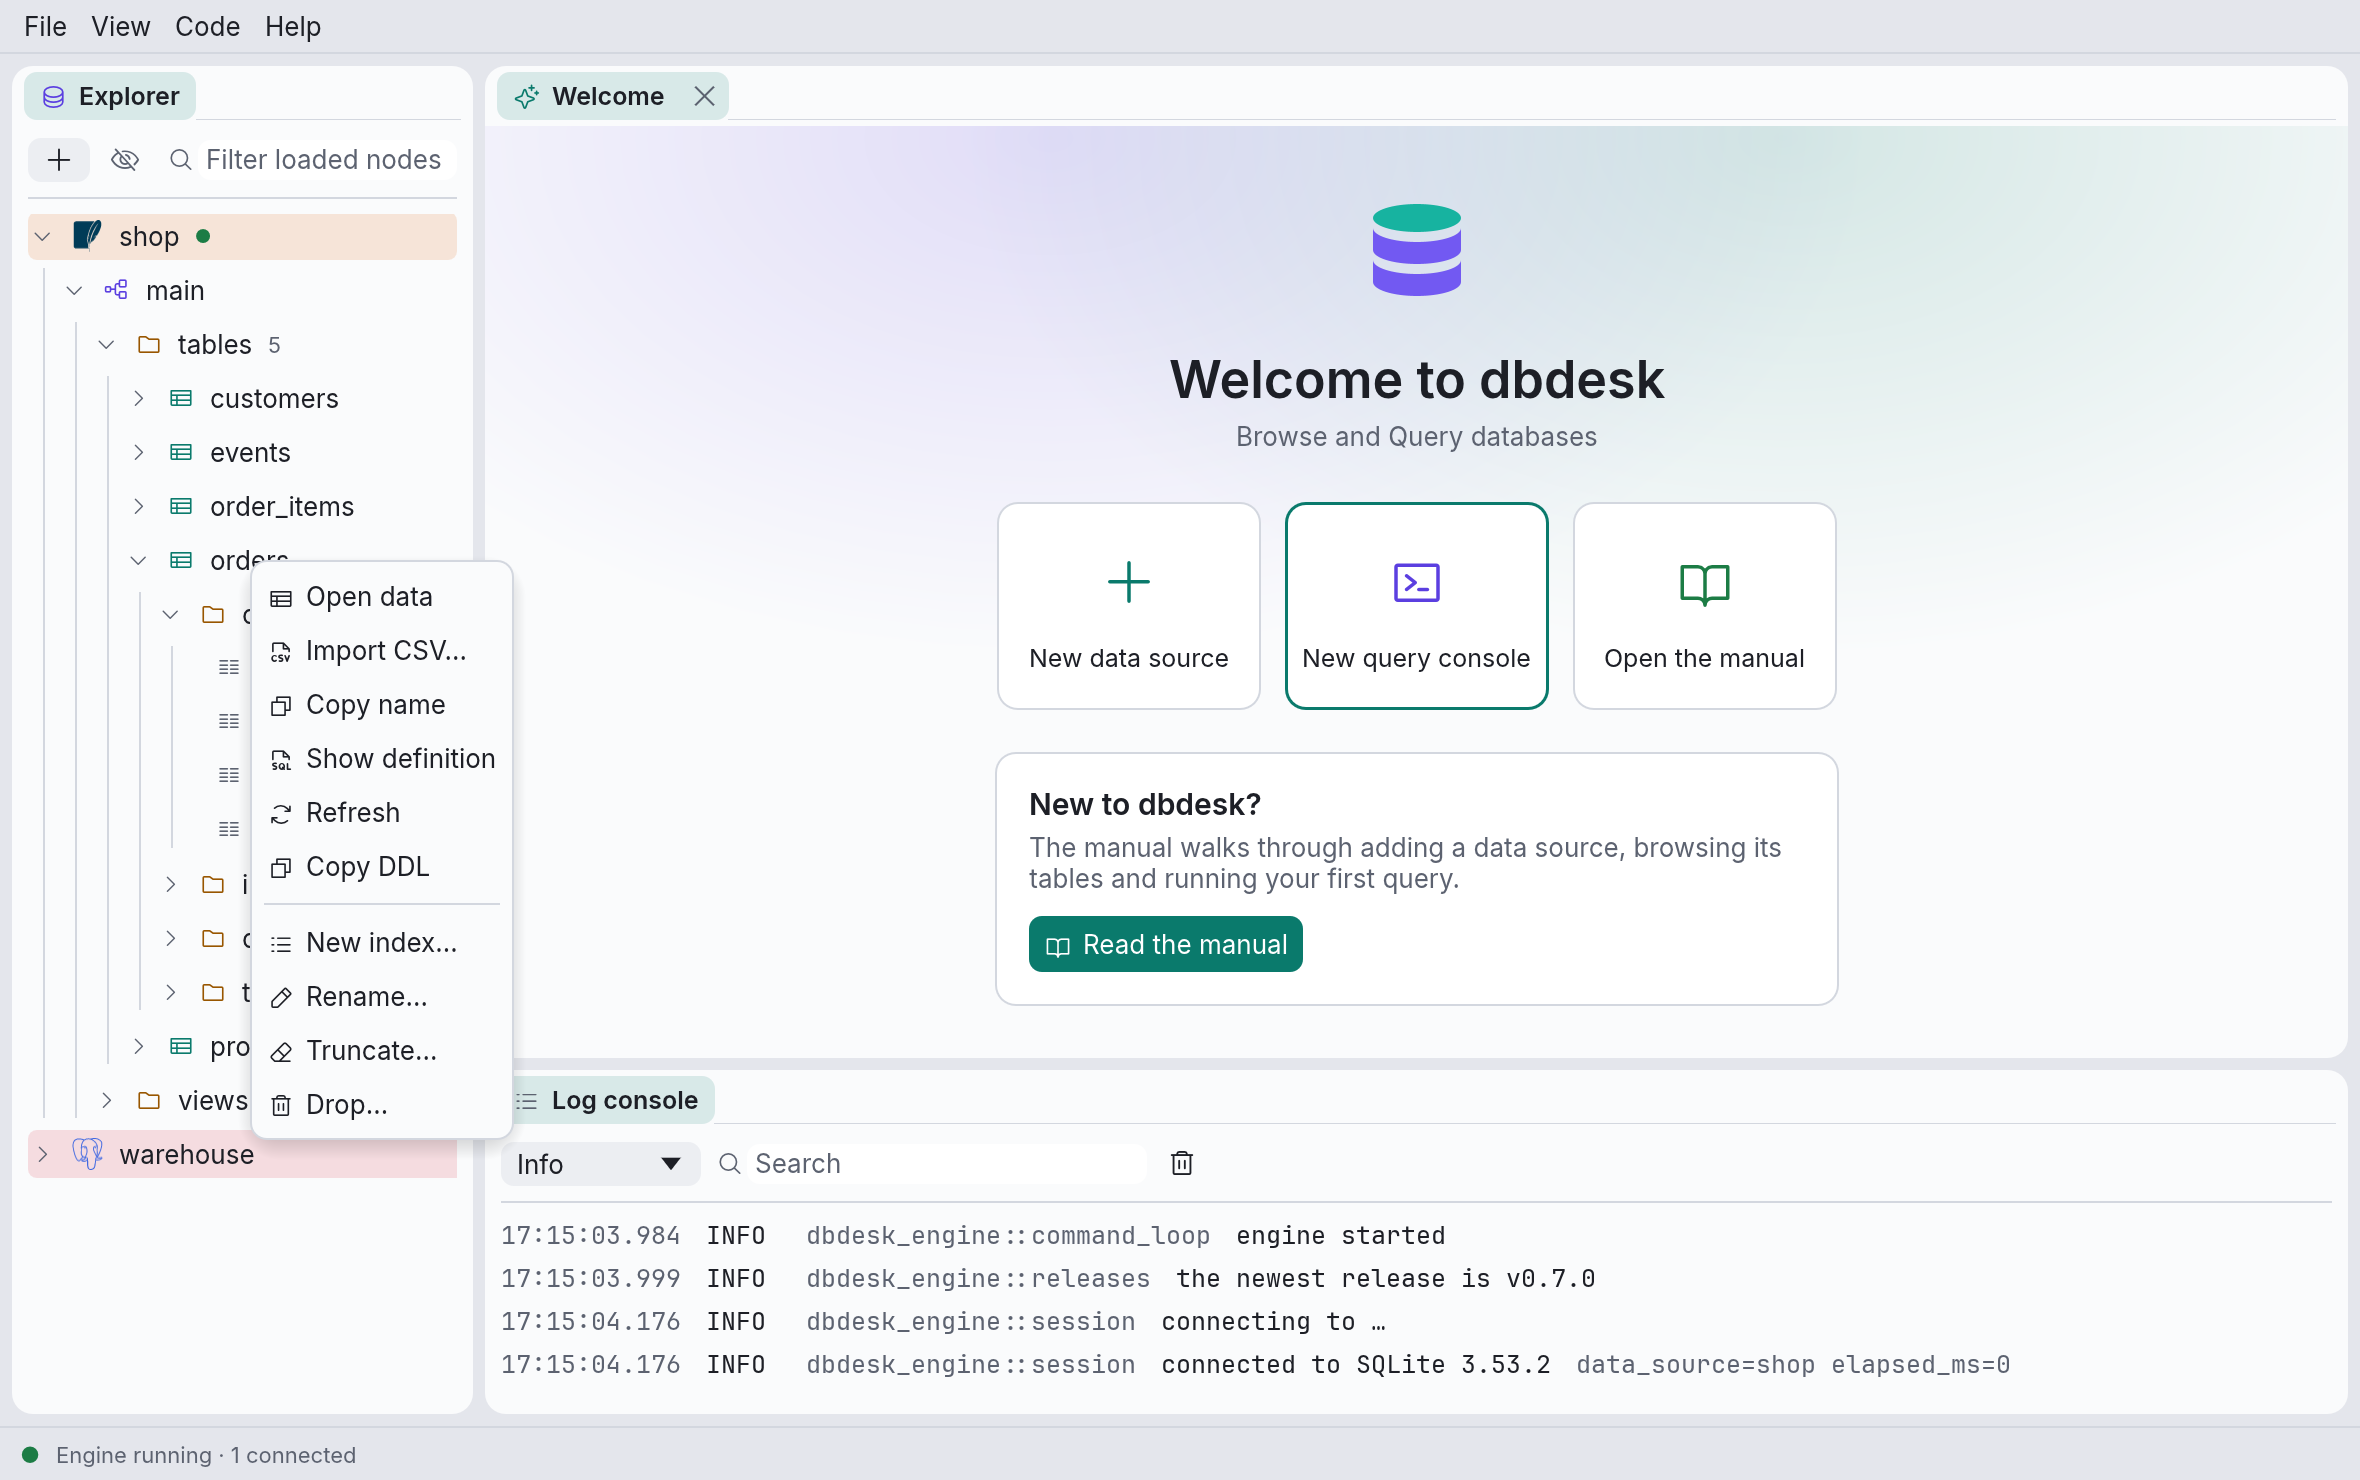
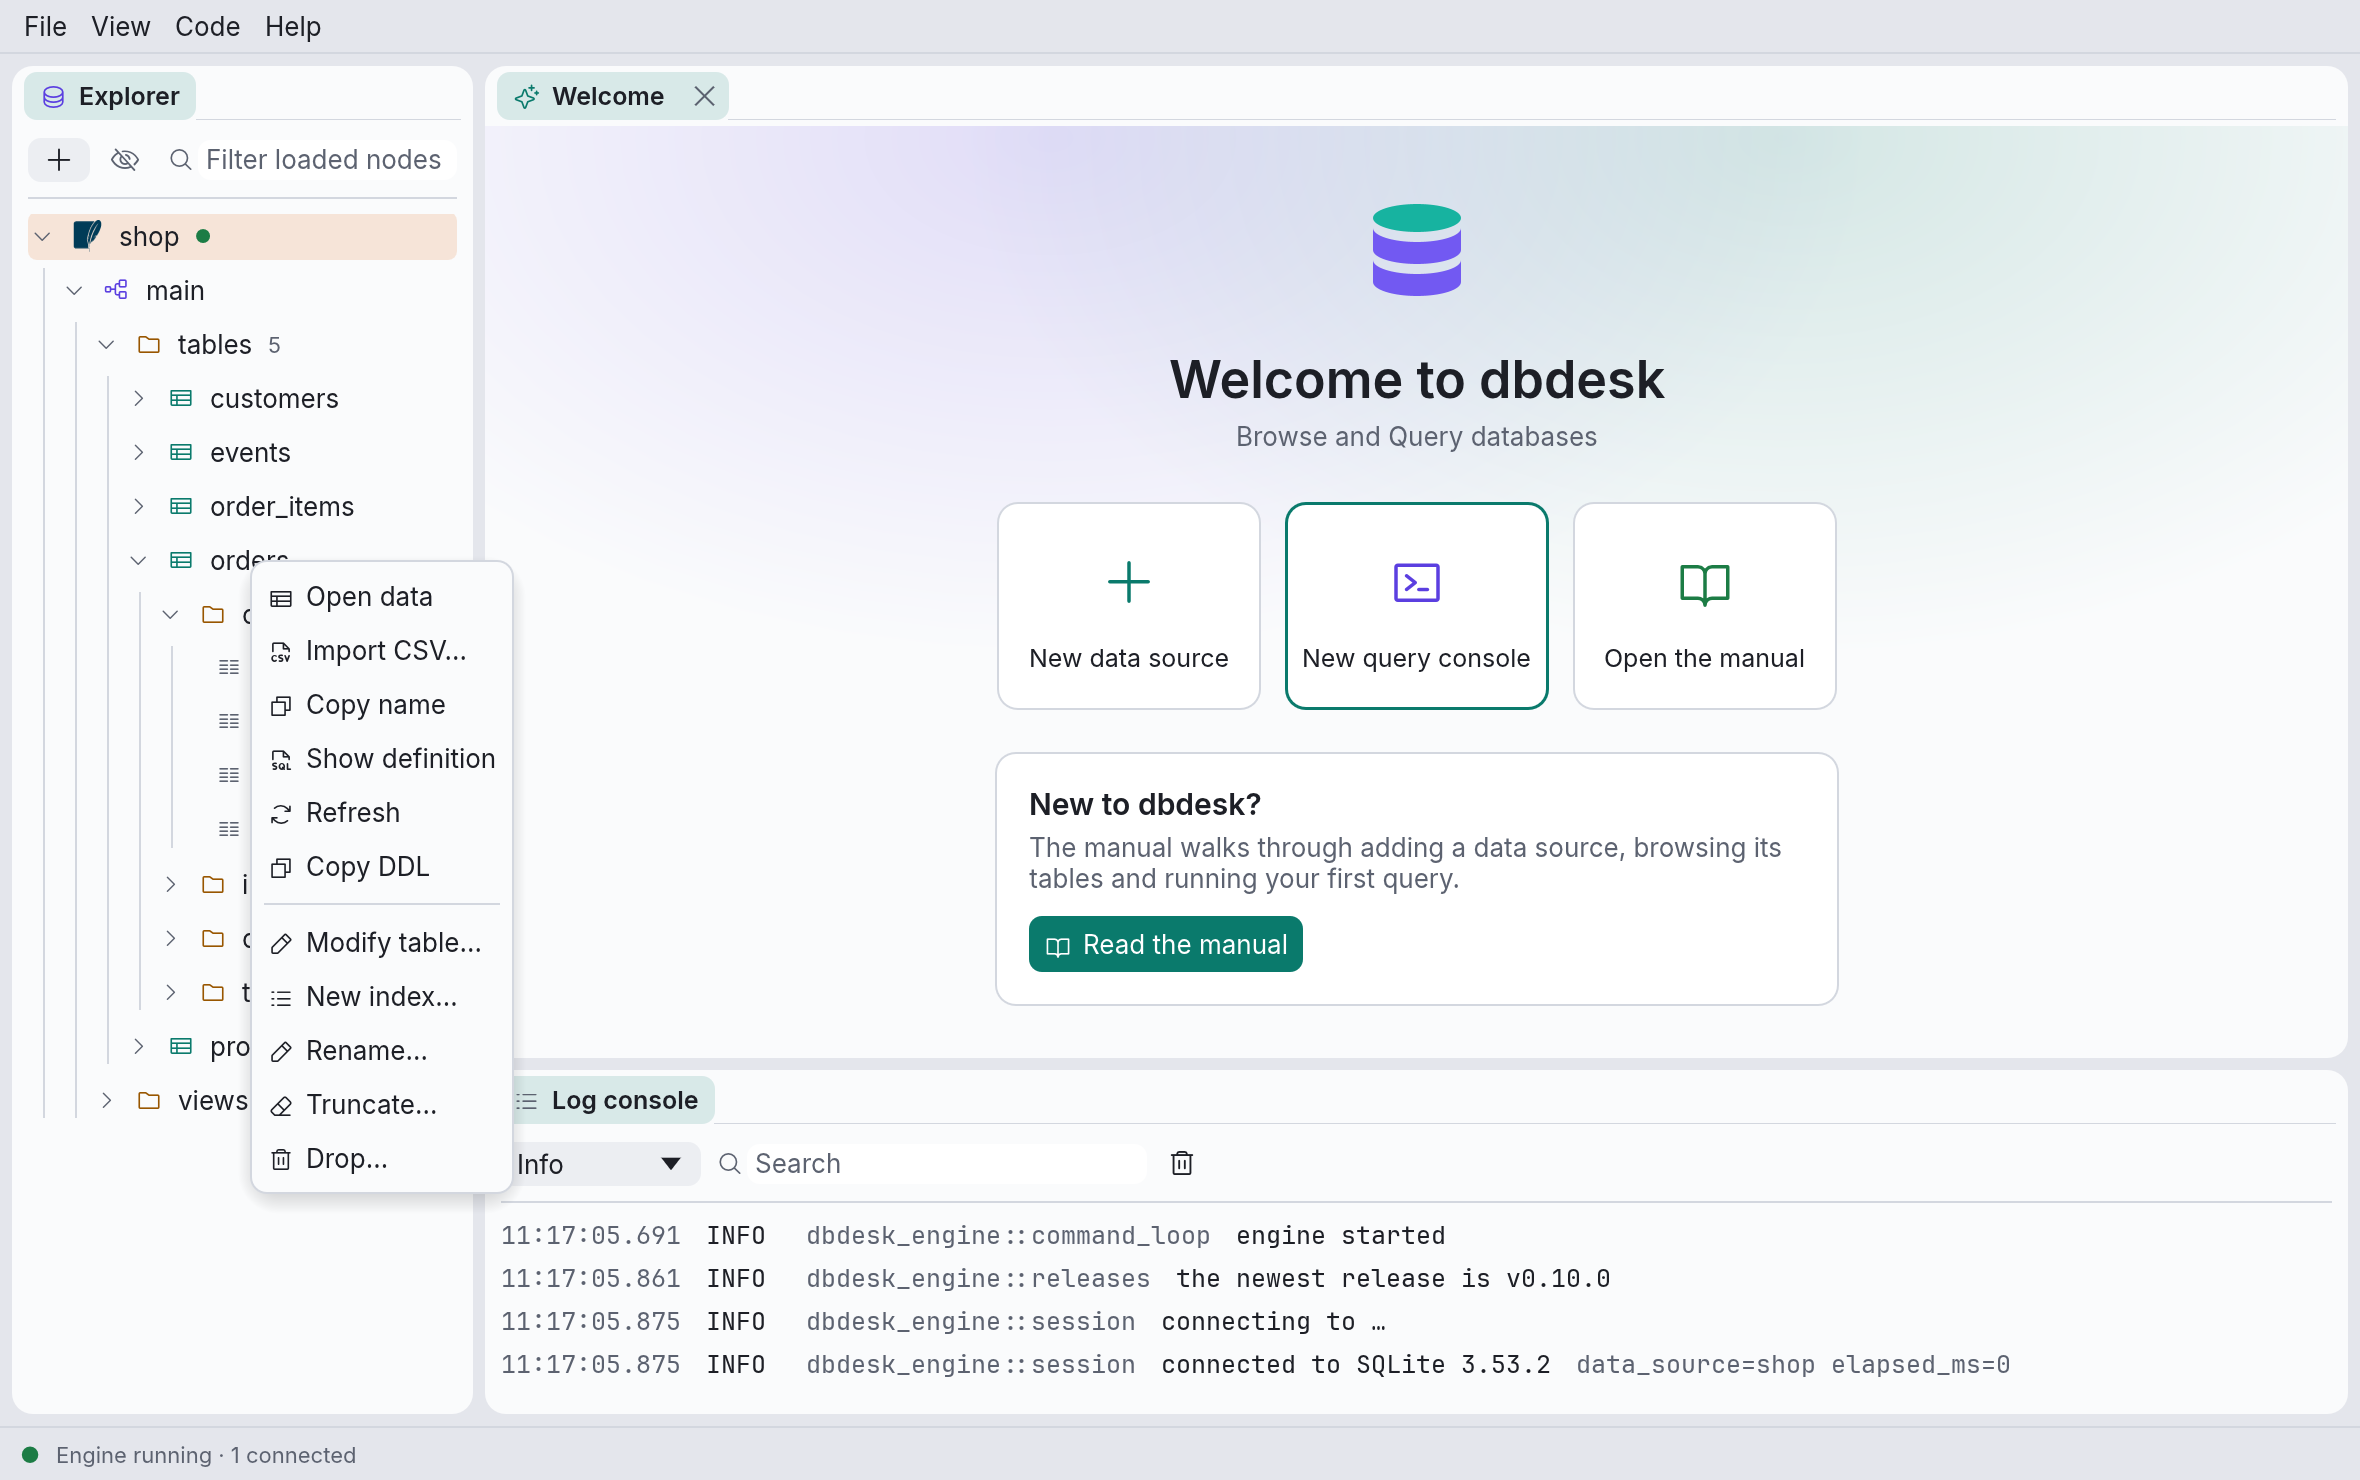
docs(book): modify a table (#174)
The manual's tables chapter explains Modify table, what each database
changes in place, and SQLite's rebuild, with a screenshot of the dialog
and the table menu that offers it. The roadmap's E4 demo note, the plan
as built and the testing notes follow.

Changed region(s): [[0.0, 0.7459, 0.2165, 0.8081], [0.1237, 0.6216, 0.1856, 0.7149], [0.6496, 0.8392, 0.6805, 0.8703]]

diff --git a/crates/dbdesk-app/src/screenshots.rs b/crates/dbdesk-app/src/screenshots.rs
@@ -285,6 +285,13 @@ const SCENES: &[Scene] = &[
         needs: &[],
     },
     Scene {
+        name: "modify-table",
+        data_sources: FixtureSources::Shop,
+        play: modify_table,
+        keeps_pointer: false,
+        needs: &[],
+    },
+    Scene {
         name: "drop-table",
         data_sources: FixtureSources::Shop,
         play: drop_table,
@@ -1041,6 +1048,22 @@ fn new_table(harness: &mut Harness<'static, DbDeskApp>, _: &Fixture) {
         .unwrap()
         .click();
     harness.run_ok();
+}
+
+/// Modify table on `orders`: a column renamed and one added, and the `ALTER TABLE`
+/// statements that make the change.
+fn modify_table(harness: &mut Harness<'static, DbDeskApp>, _: &Fixture) {
+    expand(harness, &["shop", "main", "tables"]);
+    step_until_visible(harness, "Expand orders");
+    harness.get_by_label("orders").click_secondary();
+    harness.run_ok();
+    harness.get_by_label("Modify table…").click();
+    step_until_visible(harness, "Column 4 name");
+    retype(harness, "Column 4 name", "state");
+    harness.get_by_label("Add column").click();
+    harness.run_ok();
+    retype(harness, "Column 5 name", "shipped_at");
+    retype(harness, "Column 5 type", "text");
 }
 
 /// Drop… on a data source coloured red, which wants the table's name typed.

diff --git a/book/src/objects.md b/book/src/objects.md
@@ -14,7 +14,7 @@ database can do:
 | Right-click on | Menu items |
 | --- | --- |
 | A schema, or its **tables** folder | **New › Table…** |
-| A table | **New index…**, **Rename…**, **Copy DDL**, **Truncate…**, **Drop…** |
+| A table | **Modify table…**, **New index…**, **Rename…**, **Copy DDL**, **Truncate…**, **Drop…** |
 | A table's **indexes** folder | **New › Index…** |
 | An index | **Drop index…** |
 
@@ -119,6 +119,70 @@ What differs between databases:
 - **SQL Server** gets an explicit `NULL` on nullable columns, since whether a column is
   nullable by default there depends on the connection's settings.
 
+## Modify table
+
+**Modify table…** on a table opens the New table dialog filled from the table as it is: its
+columns with their types, nullability and defaults, its primary key, and its unique keys,
+foreign keys and checks under the names the database gave them. Change what you like; the SQL
+below shows the statements that turn the table into what the dialog now says.
+
+![Modify table, with a column renamed and one added](images/modify-table.png)
+
+- **Rename a column** by typing its new name. dbdesk remembers which row each column came
+  from, so this is always a rename that keeps the column's values, never a drop and an add.
+  Keys that list the column follow its new name.
+- **Drop a column** with the ✕ at the end of its row, and **add one** with **Add column**.
+  Dropping a column loses its values, so the dialog says which columns go before **Execute**,
+  and on a red data source asks for the table's name.
+- **Change a column's type, nullability or default** in its row. On **PostgreSQL** and
+  **DuckDB**, a retyped column gets a **USING** field below the grid, for an expression that
+  converts the old values (`CASE status WHEN 'new' THEN 0 ELSE 1 END`); left empty, the
+  database converts them its own way, or refuses.
+- **Keys and checks**: tick or untick primary key columns, and add or remove unique keys,
+  foreign keys and checks in their tabs. One you leave alone is kept, even if one of its
+  columns is renamed; one you change is dropped and added again.
+- **Rename the table** with **Name**. The table stays in its schema.
+- A column the database numbers itself (an identity or `AUTO_INCREMENT` column) says
+  **identity** beside its type, and stays so.
+
+The column order doesn't change: a new column goes at the end. Statements run in an order that
+works everywhere: constraints that go are dropped first, then columns are dropped, renamed,
+added and changed, then the new keys and checks are added, and the table is renamed last.
+
+Not every database can make every change in place. What one can't do, the dialog says instead
+of showing SQL, and **Execute** waits; the rest of the change can still go to a console.
+
+| Database | In place | Refused |
+| --- | --- | --- |
+| PostgreSQL | everything | — |
+| MySQL, MariaDB | everything; a new type or nullability restates the column (`MODIFY COLUMN`), so its comment and character set go back to the defaults | — |
+| SQL Server | everything; a column's default is a named constraint, dropped and added again around a change to the column | — |
+| DuckDB | columns: rename, add, drop, type, nullability, default | keys and checks, the primary key |
+| ClickHouse | columns (nullability is its `Nullable(…)` type) and checks | the primary key, which is the table's sort order |
+| SQLite | rename, add a nullable column or one with a default, drop | — (see below) |
+
+### SQLite's table rebuild
+
+SQLite's `ALTER TABLE` does little in place, so for anything else (a new type, a column made
+`NOT NULL`, a new key or check) dbdesk rebuilds the table the way SQLite's documentation
+describes, in one transaction, and says so before **Execute**:
+
+1. It creates the new table as `new_orders`, copies every row into it, drops the old table and
+   gives the new one its name.
+2. It creates the table's indexes and triggers again, from their definitions.
+3. Only then does it rename and drop columns, in place, so that SQLite itself updates the
+   indexes, triggers, views and other tables' foreign keys that name a renamed column, and
+   refuses to drop a column one of them still uses.
+
+Foreign keys are switched off while it runs, so dropping the old table can't delete rows that
+point at it (`ON DELETE CASCADE`). If your connection had them on, dbdesk checks them before
+committing: a change that would leave a row pointing at nothing is undone, and the dialog
+names the table.
+
+A rebuild writes the table from what dbdesk reads of it, so a table with something it can't
+read back is refused, with the reason: a column with its own `COLLATE`, a generated column, a
+`WITHOUT ROWID` or a `STRICT` table. Make those changes in a console.
+
 ## New index
 
 **New index…** on a table, or **New › Index…** on its **indexes** folder.
@@ -154,6 +218,6 @@ says so.
   table's columns (their types, defaults and `NOT NULL`) and primary key, the same way New
   table does, followed by an `ALTER TABLE … ADD CONSTRAINT …` for each of its unique keys,
   foreign keys, checks and (on PostgreSQL) exclusion constraints, as the database defines
-  them. Running it recreates the table. What it leaves out: indexes that aren't constraints,
-  comments, storage parameters, partitioning, and an identity column's identity (PostgreSQL's
-  `GENERATED … AS IDENTITY`, SQL Server's `IDENTITY`), which is written as a plain column.
+  them. Running it recreates the table, identity columns included (PostgreSQL's
+  `GENERATED … AS IDENTITY`, SQL Server's `IDENTITY(seed, increment)`). What it leaves out:
+  indexes that aren't constraints, comments, storage parameters and partitioning.

diff --git a/docs/entity-helpers.md b/docs/entity-helpers.md
@@ -1,7 +1,7 @@
 # Creating and changing database objects
 
-Status: **E0, E1 and E2 built** (2026-10-26), **E3 built** (2026-10-27); E4 planned in
-detail (2026-10-28). Proposed
+Status: **E0, E1 and E2 built** (2026-10-26), **E3 built** (2026-10-27), **E4 built**
+(2026-10-28). Proposed
 on 2026-10-23; on 2026-10-26 indexes moved from Later into E1 and schemas into E2.
 
 Today the explorer only reads: it browses the catalog, opens a table's data and shows
@@ -334,6 +334,25 @@ Changing an existing table is the hardest helper, so it comes last.
 
 **Exit:** I change a column's type and add a foreign key on a table with rows, on both engines,
 and nothing is lost.
+
+**As built:**
+- The layers went as planned. Identity columns came first, so the spec the diff compares was
+  complete before it was written.
+- SQLite's `ALTER TABLE … RENAME TO` checks every view and trigger first, and refuses while one
+  names the table the rebuilt one is about to replace, so the rebuild wraps that one rename in
+  `PRAGMA legacy_alter_table = ON` and `OFF`; the renames and drops in place after it run with
+  it off, so SQLite still rewrites and checks what names their columns.
+- A rebuild is confirmed like a destructive change (the table's name typed on a red data
+  source), since it drops the table after copying it; so is dropping columns.
+- Renaming a column in the grid renames it in the dialog's key lists too, so its keys keep it.
+- Key columns are never nullable in a loaded spec, as in a new one: SQLite reports its
+  `INTEGER PRIMARY KEY` as nullable.
+- SQLite keeps no names for unique and foreign keys outside the `CREATE TABLE` text, so a
+  rebuild writes them unnamed. Its checks are read from that text.
+- ClickHouse's sort key isn't read back, so its tables load without a primary key, and ticking
+  one is refused, as any key change there is.
+- Not built: changing a column's identity, reordering columns, and moving a table to another
+  schema, each refused with the reason.
 
 ## Later
 

diff --git a/docs/roadmap.md b/docs/roadmap.md
@@ -512,6 +512,23 @@ and users, from a **New** submenu and object actions in the explorer. The full p
   - identity and auto-increment columns, kept by Modify table and written by Copy DDL;
   - SQLite's table rebuild last, in its own layer.
 
+  **E4 demo note:** built. Right-click `orders` → **Modify table…**: the dialog loads the
+  table, its keys and checks under their own names. Rename `status` to `state` and add
+  `shipped_at text`, and the panel shows `ALTER TABLE main.orders RENAME COLUMN status TO
+  state;` and `… ADD COLUMN shipped_at text;`; **Execute** keeps every row. Remove a row and
+  the dialog says which column's values go. On PostgreSQL every change happens in place, with
+  a **USING** field for a retyped column; MySQL restates a retyped column with `MODIFY
+  COLUMN`; SQL Server drops and re-adds a column's named default around a change; DuckDB and
+  ClickHouse refuse in the dialog what they can't do ("DuckDB can't add keys or checks to an
+  existing table."). On SQLite, a new type rebuilds the table: a new table, the rows copied,
+  the old one dropped and the new one renamed, its indexes and triggers created again, then
+  columns renamed and dropped in place so SQLite rewrites the views and keys that name them,
+  all in one transaction with foreign keys off and checked before committing. Copy DDL on
+  PostgreSQL and SQL Server now keeps identity columns. Covered by golden tests per dialect,
+  an engine round trip on every engine with a test server that alters a table with rows and
+  loads it back, a SQLite rebuild test that keeps rows, an index, a trigger, a view and a
+  cascading key, and kittest tests of the dialog on SQLite.
+
 ## MCP track
 
 An MCP server, so AI assistants can browse and query dbdesk's data sources, grouped into

diff --git a/docs/testing.md b/docs/testing.md
@@ -115,6 +115,18 @@ against a real server, such as a cancel arriving after the last row.
   `TableSpec` on every engine with a test server, describes the child, and compares its
   columns, nullability, default and primary key with the spec, then drops both. Copy DDL on
   PostgreSQL and SQL Server is checked by running what it copied after dropping the table.
+- Modify table (E4): the builder's golden tests write each dialect's `ALTER TABLE` for column
+  and constraint changes, renames that stay renames (and the same names without a rename,
+  which drop and add), what each dialect refuses, SQLite's rebuild in full, and what makes a
+  SQLite table unrebuildable. Each driver's `describe_constraints` is covered by the engine's
+  round trip, which on every engine with a test server (SQLite and a DuckDB file too) creates
+  a table with rows, loads it with `LoadTable`, renames, retypes, drops and adds columns and,
+  where the engine can, adds a check and a foreign key, loads it again and compares, reads the
+  rows back through a console, then takes the constraints off again. SQLite's rebuild has its
+  own engine test, with foreign keys switched on: the rows, an index, a trigger, a view,
+  `AUTOINCREMENT` and another table's cascading key survive, and a rebuild that breaks a key is
+  undone. The app's kittest tests modify a SQLite table in place and by a rebuild through the
+  dialog, and see a `STRICT` table refused.
 - The builder's golden tests also write every view and schema statement, and `view_query` is
   checked against a definition as each engine shows it.
 - The engine's view round trip creates a view on every engine with a test server, edits its
